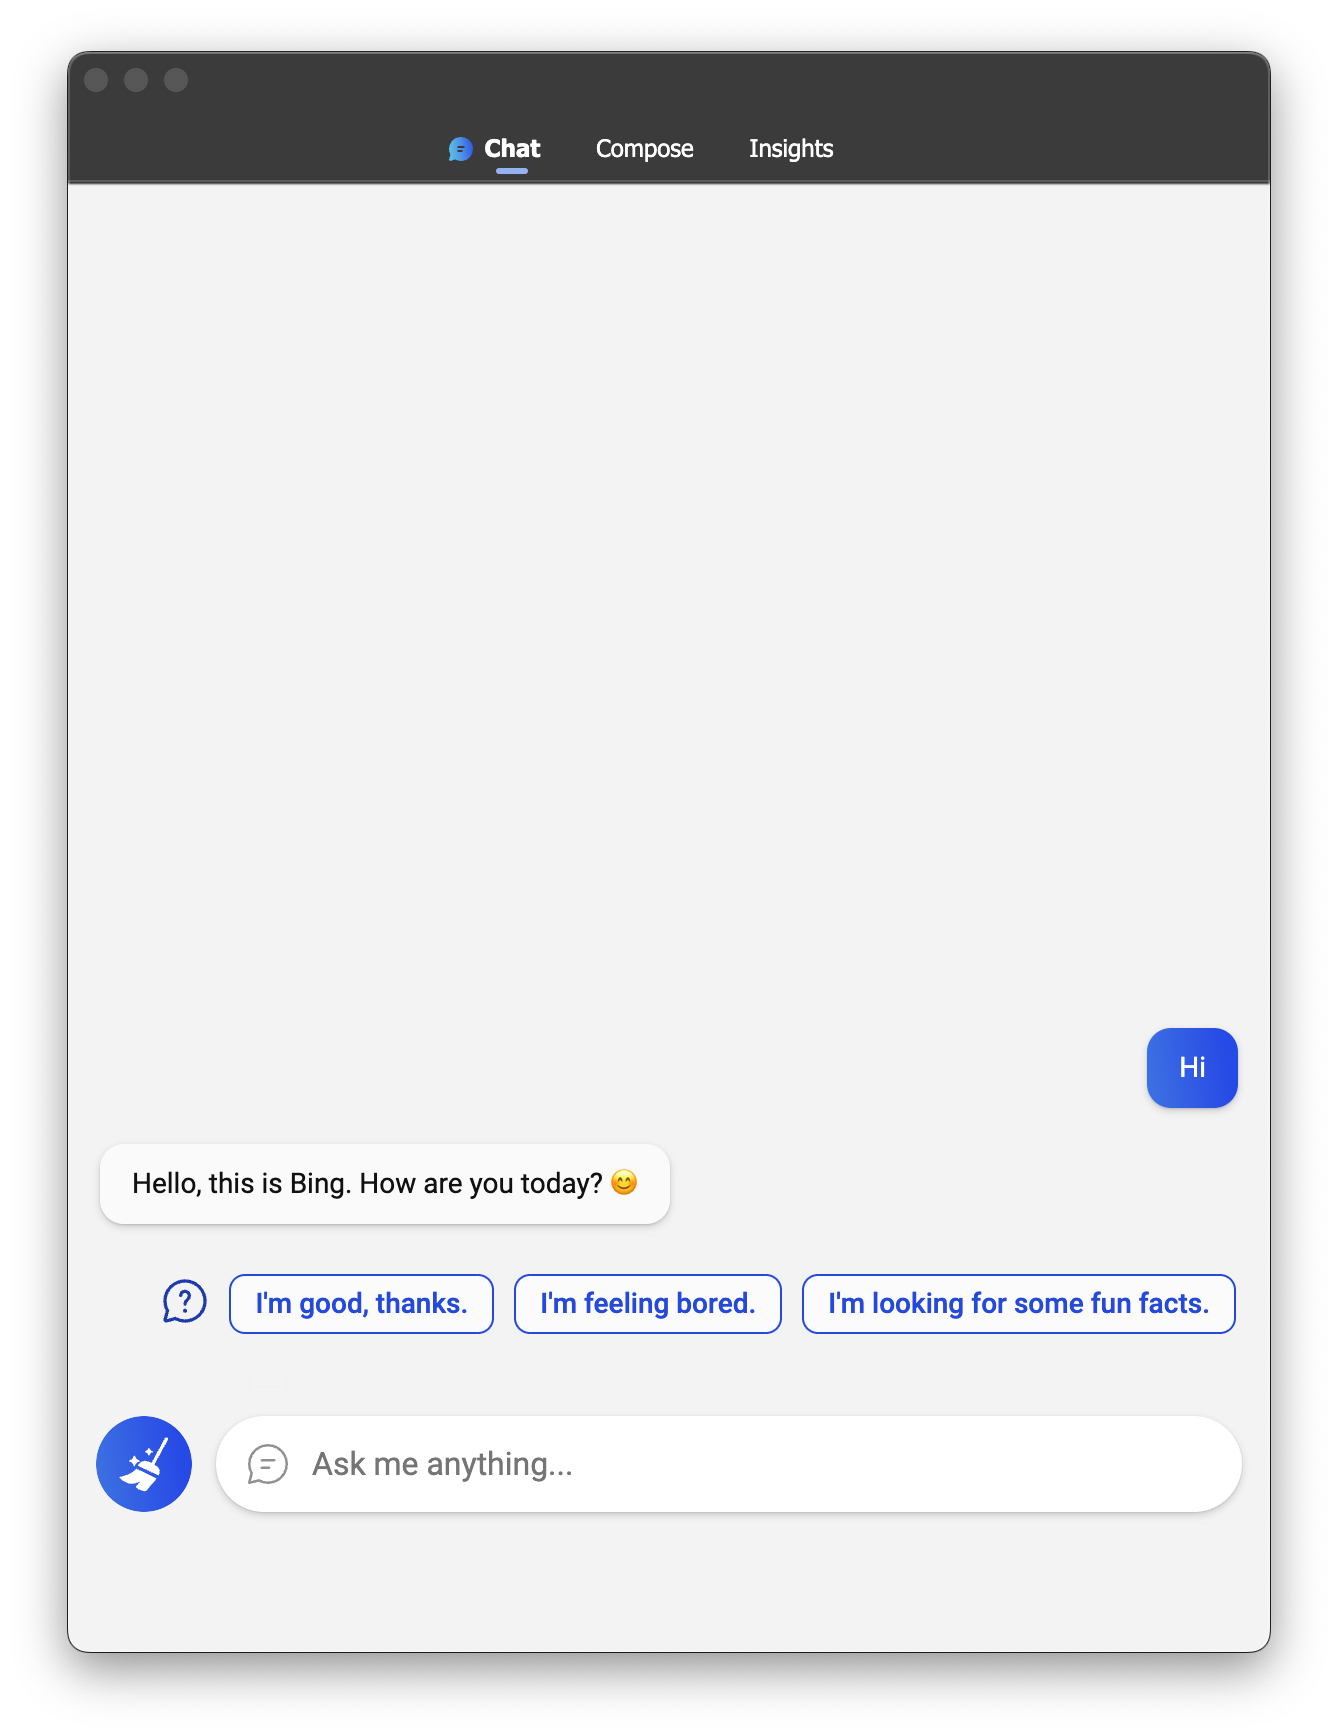
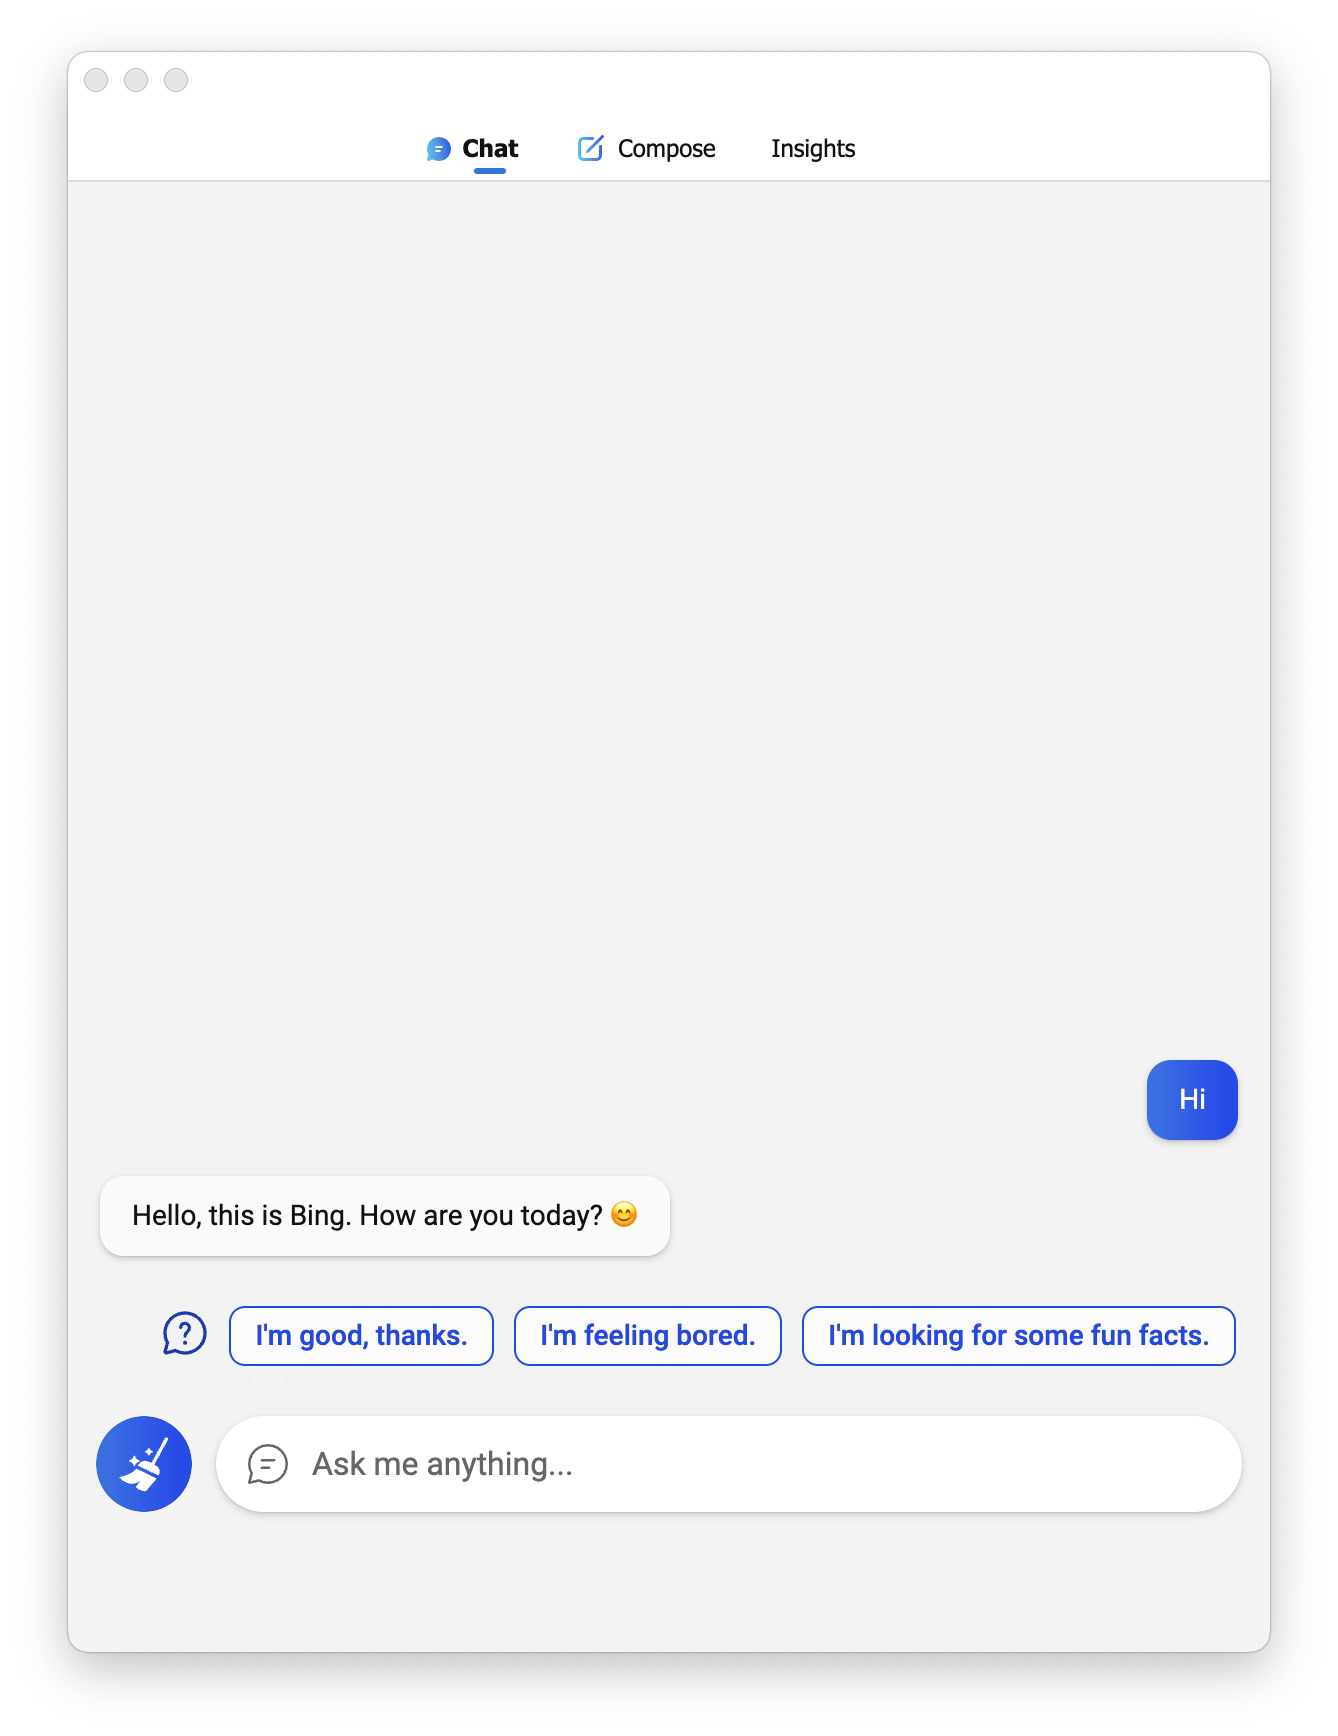
feat: follow system theme

diff --git a/main.js b/main.js
@@ -1,22 +1,25 @@
-const { app, shell, Menu, BrowserWindow } = require('electron')
+const { app, shell, nativeTheme, Menu, BrowserWindow } = require('electron')
 const contextMenu = require('electron-context-menu')
 const path = require('path')
 
 if (require('electron-squirrel-startup')) app.quit()
 
+// Check color scheme
+const isDarkMode = nativeTheme.shouldUseDarkColors
+
 const createWindow = () => {
   // Create window
   const mainWindow = new BrowserWindow({
     title: 'BingGPT',
-    backgroundColor: '#f3f3f3',
+    backgroundColor: isDarkMode ? '#2b2b2b' : '#f3f3f3',
     icon: 'icon.png',
     width: 601,
     height: 800,
     titleBarStyle: 'hidden',
     titleBarOverlay: true,
     titleBarOverlay: {
-      color: '#3b3b3b',
-      symbolColor: '#f3f3f3',
+      color: isDarkMode ? '#3b3b3b' : '#ffffff',
+      symbolColor: isDarkMode ? '#f3f3f3' : '#2b2b2b',
     },
     webPreferences: {
       preload: path.join(__dirname, 'preload.js'),
@@ -56,7 +59,9 @@ const createWindow = () => {
   // Get language
   const locale = app.getLocale() || 'en-US'
   // Load Bing
-  const bingUrl = `https://edgeservices.bing.com/edgediscover/query?&darkschemeovr=1&FORM=SHORUN&udscs=1&udsnav=1&setlang=${locale}&features=udssydinternal&clientscopes=windowheader,coauthor,chat,&udsframed=1`
+  const bingUrl = `https://edgeservices.bing.com/edgediscover/query?&${
+    isDarkMode ? 'dark' : 'light'
+  }schemeovr=1&FORM=SHORUN&udscs=1&udsnav=1&setlang=${locale}&features=udssydinternal&clientscopes=windowheader,coauthor,chat,&udsframed=1`
   const userAgent =
     'Mozilla/5.0 (Macintosh; Intel Mac OS X 10_15_7) AppleWebKit/537.36 (KHTML, like Gecko) Chrome/111.0.0.0 Safari/537.36 Edg/111.0.1660.12'
   mainWindow.loadURL(bingUrl, { userAgent: userAgent })

diff --git a/forge.config.js b/forge.config.js
@@ -38,7 +38,7 @@ module.exports = {
           productName: 'BingGPT',
           description: 'AI-powered answer engine',
           productDescription: 'AI-powered answer engine',
-          version: '0.1.0',
+          version: '0.1.1',
           categories: ['Utility'],
           maintainer: 'dice2o',
           homepage: 'https://github.com/dice2o/BingGPT',
@@ -54,7 +54,7 @@ module.exports = {
           productName: 'BingGPT',
           description: 'AI-powered answer engine',
           productDescription: 'AI-powered answer engine',
-          version: '0.1.0',
+          version: '0.1.1',
           categories: ['Utility'],
           maintainer: 'dice2o',
           homepage: 'https://github.com/dice2o/BingGPT',

diff --git a/README.md b/README.md
@@ -20,22 +20,22 @@
 
 ### Windows
 
-- [BingGPT-0.1.0-win32-x64-Setup.exe](https://github.com/dice2o/BingGPT/releases/download/v0.1.0/BingGPT-0.1.0-win32-x64-Setup.exe) (Installer)
-- [BingGPT-0.1.0-win32-x64.zip](https://github.com/dice2o/BingGPT/releases/download/v0.1.0/BingGPT-0.1.0-win32-x64.zip) (Portable)
-- [BingGPT-0.1.0-win32-arm64-Setup.exe](https://github.com/dice2o/BingGPT/releases/download/v0.1.0/BingGPT-0.1.0-win32-arm64-Setup.exe) (Installer)
-- [BingGPT-0.1.0-win32-arm64.zip](https://github.com/dice2o/BingGPT/releases/download/v0.1.0/BingGPT-0.1.0-win32-arm64.zip) (Portable)
+- [BingGPT-0.1.1-win32-x64-Setup.exe](https://github.com/dice2o/BingGPT/releases/download/v0.1.1/BingGPT-0.1.1-win32-x64-Setup.exe) (Installer)
+- [BingGPT-0.1.1-win32-x64.zip](https://github.com/dice2o/BingGPT/releases/download/v0.1.1/BingGPT-0.1.1-win32-x64.zip) (Portable)
+- [BingGPT-0.1.1-win32-arm64-Setup.exe](https://github.com/dice2o/BingGPT/releases/download/v0.1.1/BingGPT-0.1.1-win32-arm64-Setup.exe) (Installer)
+- [BingGPT-0.1.1-win32-arm64.zip](https://github.com/dice2o/BingGPT/releases/download/v0.1.1/BingGPT-0.1.1-win32-arm64.zip) (Portable)
 
 ### MacOS
 
-- [BingGPT-0.1.0-darwin-arm64.dmg](https://github.com/dice2o/BingGPT/releases/download/v0.1.0/BingGPT-0.1.0-darwin-arm64.dmg) (Apple Silicon)
-- [BingGPT-0.1.0-darwin-x64.dmg](https://github.com/dice2o/BingGPT/releases/download/v0.1.0/BingGPT-0.1.0-darwin-x64.dmg) (Intel chips)
+- [BingGPT-0.1.1-darwin-arm64.dmg](https://github.com/dice2o/BingGPT/releases/download/v0.1.1/BingGPT-0.1.1-darwin-arm64.dmg) (Apple Silicon)
+- [BingGPT-0.1.1-darwin-x64.dmg](https://github.com/dice2o/BingGPT/releases/download/v0.1.1/BingGPT-0.1.1-darwin-x64.dmg) (Intel chips)
 
 ### Linux
 
-- [BingGPT-0.1.0-linux-x64.deb](https://github.com/dice2o/BingGPT/releases/download/v0.1.0/BingGPT-0.1.0-linux-x64.deb)
-- [BingGPT-0.1.0-linux-arm64.deb](https://github.com/dice2o/BingGPT/releases/download/v0.1.0/BingGPT-0.1.0-linux-arm64.deb)
-- [BingGPT-0.1.0-linux-x64.rpm](https://github.com/dice2o/BingGPT/releases/download/v0.1.0/BingGPT-0.1.0-linux-x64.rpm)
-- [BingGPT-0.1.0-linux-arm64.rpm](https://github.com/dice2o/BingGPT/releases/download/v0.1.0/BingGPT-0.1.0-linux-arm64.rpm)
+- [BingGPT-0.1.1-linux-x64.deb](https://github.com/dice2o/BingGPT/releases/download/v0.1.1/BingGPT-0.1.1-linux-x64.deb)
+- [BingGPT-0.1.1-linux-arm64.deb](https://github.com/dice2o/BingGPT/releases/download/v0.1.1/BingGPT-0.1.1-linux-arm64.deb)
+- [BingGPT-0.1.1-linux-x64.rpm](https://github.com/dice2o/BingGPT/releases/download/v0.1.1/BingGPT-0.1.1-linux-x64.rpm)
+- [BingGPT-0.1.1-linux-arm64.rpm](https://github.com/dice2o/BingGPT/releases/download/v0.1.1/BingGPT-0.1.1-linux-arm64.rpm)
 
 ## Usage
 
